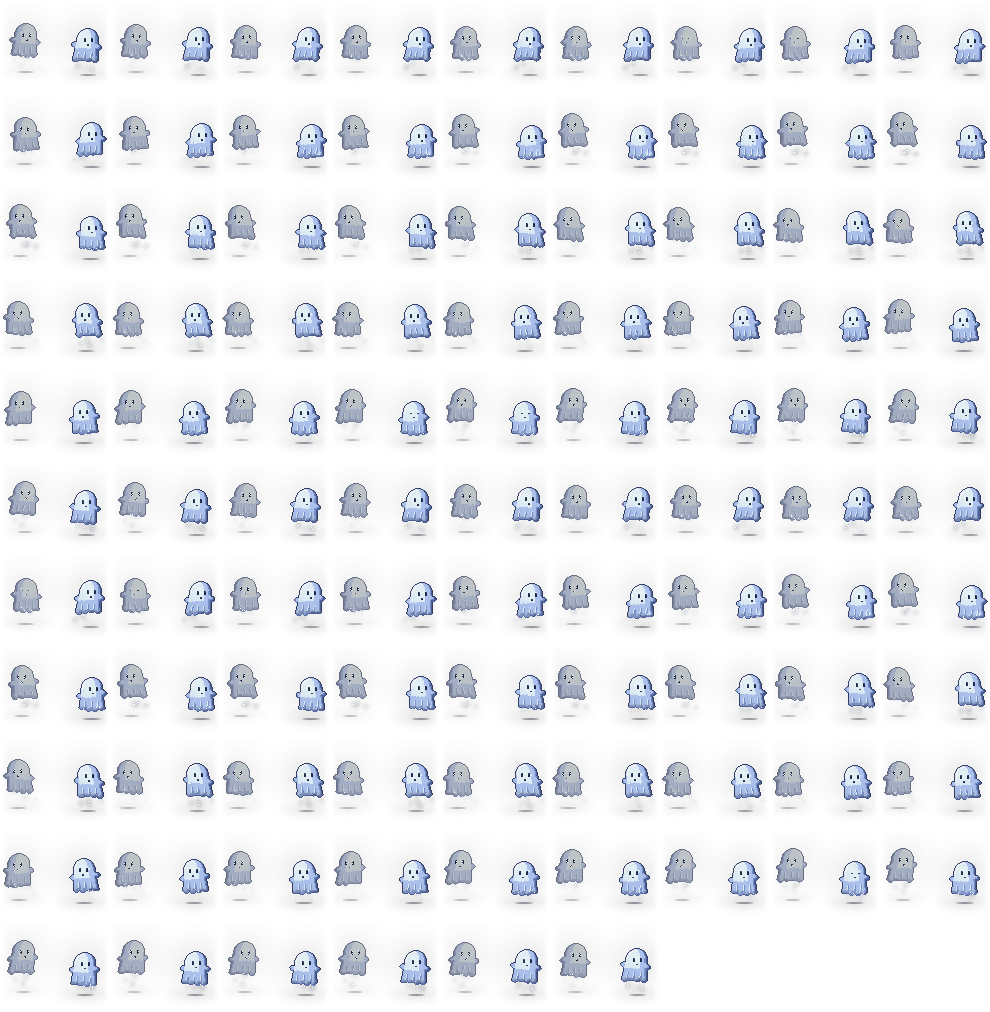
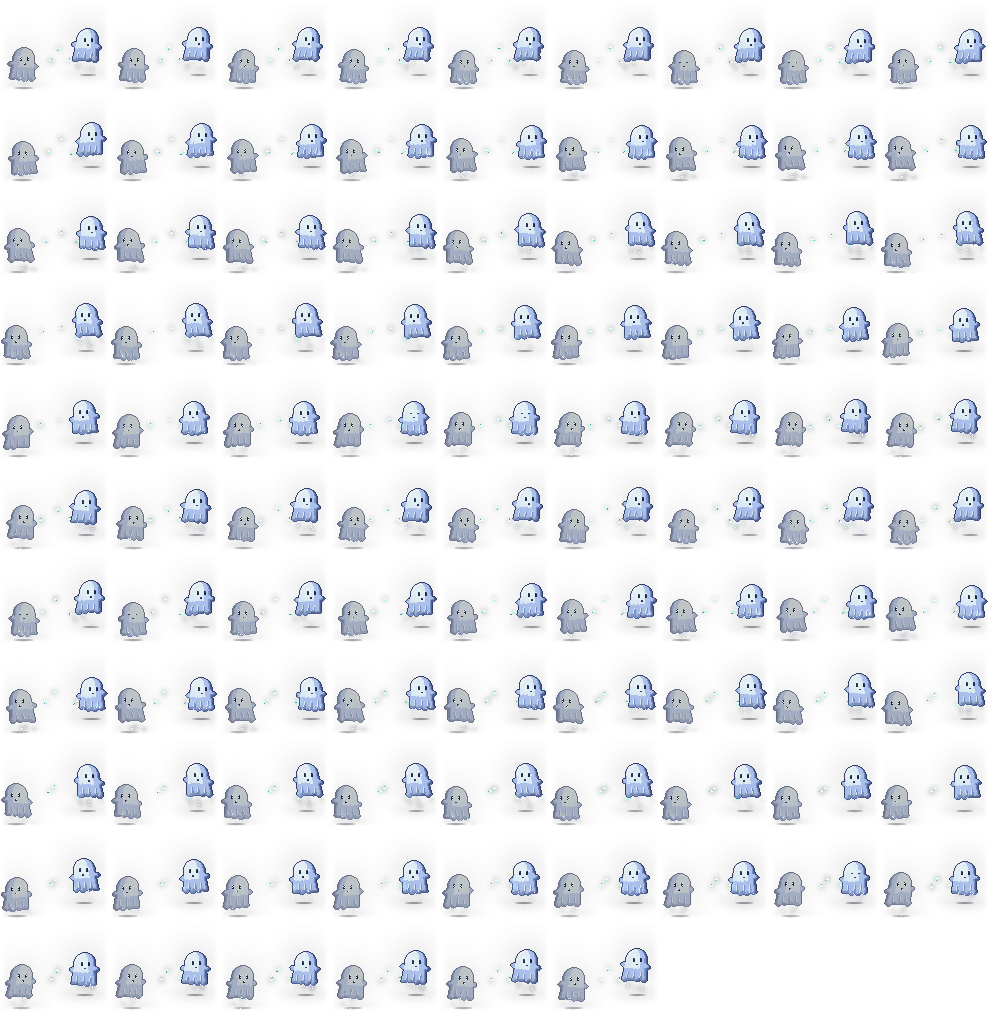
style(cosmetics): 꼬마 유령 카드 배경을 제대로 된 달밤 묘지로
- 예전 배경은 밤하늘·초승달만 보이고 고목·비석은 유령과 이름 띠에 가려 썰렁했다
- 유령이 없는 자리에 볼거리를 둔다: 오른쪽 위 초승달, 왼쪽에 등불 단 고목(등불이 은은히 빛난다),
  초상화 아래 먼 언덕의 작은 예배당, 언덕 등성이의 철책, 이름 띠 위로 올린 큰 비석·십자가, 풀, 안개
- 흐릿한 유령은 무덤 사이에서 솟아오르게 낮췄고(등불이 가려지지 않게), 도깨비불 셋이 무덤 위를 떠돈다

diff --git a/scripts/pixelfx/cards/bg-ghost.js b/scripts/pixelfx/cards/bg-ghost.js
@@ -1,18 +1,117 @@
-// Nexus card "꼬마 유령" backdrop: a blue night graveyard, crescent moon, a dead tree, crooked stones in the fog.
-import { sky, halo, ridge, stars, moon, deadTree, tomb, fogBand } from "./_bg.js";
+// Nexus card "꼬마 유령" backdrop: a moonlit graveyard. A crescent moon top right, a small chapel on the far hill
+// below the portrait, a gnarled tree on the left with a lantern hanging off a branch, an iron fence along
+// the crest, big crooked headstones and crosses raised on the hill (above the name bar), mist in the hollow.
+import { sky, halo, ridge, stars, moon, fogBand, W } from "./_bg.js";
 import { CARD } from "./_card.js";
-export const meta = { name: "Card bg: ghost", desc: "Blue night graveyard with a crescent moon.", tags: ["card", "bg"], ...CARD, duration: 0.05, loop: true, fps: 20, bg: "dark", options: { seed: 1 } };
+import { hex, rand } from "../../core/index.js";
+export const meta = { name: "Card bg: ghost", desc: "Moonlit graveyard: chapel, gnarled tree with lantern, fence, headstones, mist.", tags: ["card", "bg"], ...CARD, duration: 0.05, loop: true, fps: 20, bg: "dark", options: { seed: 1 } };
+
+const INK = hex("#060914");
+const SIL = ["#0b1124", "#111a33", "#18233f"].map(hex); // silhouettes, far to near
+const STONE = ["#1c2540", "#2c3858", "#43527a", "#6a7aa6"].map(hex); // headstones: shadow .. moonlit edge
+const GRASS = ["#0d1a26", "#16293a", "#22405a"].map(hex);
+
+function chapel(p, x, base) {
+  // small and far: a nave, a steeple with a cross, one pointed window glowing faintly
+  const c = SIL[0];
+  p.rect(x, base - 7, 10, 7, c);
+  for (let r = 0; r < 4; r++) p.rect(x - 1 + r, base - 8 - r, 12 - r * 2, 1, c);
+  p.rect(x + 1, base - 16, 4, 9, c);
+  for (let r = 0; r < 4; r++) p.rect(x + 1 + Math.floor(r / 2), base - 17 - r, 4 - Math.floor(r / 2) * 2, 1, c);
+  p.rect(x + 2, base - 24, 2, 4, c); p.rect(x + 1, base - 23, 4, 1, c);
+  const glow = hex("#9fd8c8");
+  p.rect(x + 2, base - 13, 2, 2, glow);
+  p.rect(x + 7, base - 5, 1, 2, hex("#6fa89a"));
+  halo(p, x + 3, base - 12, 5, "#9fd8c8", 0.3);
+}
+
+/** a gnarled tree on the left: thick strokes along fixed bends, a lantern hanging from the long low limb */
+function tree(p) {
+  const c = hex("#070b18");
+  // [from x, from y, to x, to y, width from, width to]
+  const stroke = (x0, y0, x1, y1, w0, w1) => {
+    const n = Math.ceil(Math.hypot(x1 - x0, y1 - y0) * 2);
+    for (let i = 0; i <= n; i++) {
+      const u = i / n, w = w0 + (w1 - w0) * u;
+      p.disc(x0 + (x1 - x0) * u, y0 + (y1 - y0) * u, Math.max(0.5, w / 2), c);
+    }
+  };
+  // trunk, leaning and kinked, with roots
+  stroke(8, 70, 11, 54, 6, 5); stroke(11, 54, 9, 42, 5, 4); stroke(9, 42, 12, 30, 4, 3);
+  stroke(2, 70, 8, 66, 2, 3); stroke(15, 70, 10, 65, 2, 3);
+  // the long low limb reaching right, where the lantern hangs
+  stroke(10, 46, 18, 40, 3, 2); stroke(18, 40, 27, 39, 2, 1.2); stroke(27, 39, 31, 36, 1.2, 1);
+  // upper limbs and twigs
+  stroke(12, 30, 20, 18, 3, 1.5); stroke(20, 18, 26, 14, 1.5, 1); stroke(20, 18, 21, 10, 1.2, 1);
+  stroke(11, 33, 3, 22, 2.5, 1.2); stroke(3, 22, 1, 15, 1.2, 1); stroke(6, 26, 9, 19, 1, 1);
+  stroke(15, 25, 13, 16, 1.2, 1); stroke(24, 39, 25, 43, 1, 1);
+  // the lantern: a chain from the limb, a little iron cage with a pale flame
+  const hx = 26, hy = 39;
+  for (let k = 1; k <= 4; k++) p.px(hx, hy + k, INK);
+  p.rect(hx - 2, hy + 5, 5, 1, INK);
+  p.rect(hx - 2, hy + 6, 5, 5, INK);
+  p.rect(hx - 1, hy + 6, 3, 4, hex("#bfeee0"));
+  p.px(hx, hy + 7, hex("#ffffff"));
+  p.rect(hx - 1, hy + 11, 3, 1, INK);
+  halo(p, hx, hy + 8, 16, "#9fe8d0", 0.45);
+}
+
+function fence(p, x0, x1, base) {
+  const bar = hex("#0a1020");
+  p.rect(x0, base - 6, x1 - x0, 1, bar);
+  p.rect(x0, base - 2, x1 - x0, 1, bar);
+  for (let x = x0; x < x1; x += 3) {
+    p.rect(x, base - 8, 1, 8, bar);
+    p.px(x, base - 9, bar); p.px(x - 1, base - 8, bar); p.px(x + 1, base - 8, bar); // spear tip
+  }
+}
+
+/** a headstone with a moonlit right edge (the moon is on the right) and a darker base */
+function stone(p, x, base, w, h, kind, lean = 0) {
+  const r = w / 2;
+  p.shade(x - r - 1, base - h - 1, x + r + 1, base, (xx, yy) => {
+    const dx = xx + 0.5 - x - lean * (base - yy) / h, top = base - h + r;
+    if (kind === "cross") {
+      const arm = yy >= base - h + 2 && yy <= base - h + 3;
+      if (!(Math.abs(dx) <= 1 || (arm && Math.abs(dx) <= r))) return;
+      if (yy < base - h) return;
+      return dx >= 0.5 ? STONE[3] : STONE[1];
+    }
+    const inside = yy >= top ? Math.abs(dx) <= r : Math.hypot(dx, yy + 0.5 - top) <= r;
+    const out = yy >= top ? Math.abs(dx) <= r + 1 : Math.hypot(dx, yy + 0.5 - top) <= r + 1;
+    if (!out) return;
+    if (!inside) return INK;
+    if (dx > r - 1.2) return STONE[3];
+    if (yy > base - 2) return STONE[0];
+    return kind === "carved" && Math.abs(dx) < r - 1.5 && (yy === top + 1 || yy === top + 3) ? STONE[0] : STONE[2];
+  });
+}
 
 export function draw(p) {
-  sky(p, ["#0b1022", "#111a33", "#182544", "#223257", "#30426b"], 0, 80, 1.1);
-  stars(p, 30, 5, 50);
-  halo(p, 92, 13, 22, "#c8d8ff", 0.4);
-  moon(p, 92, 13, 7, { lit: "#eef2ff", mid: "#c9d3f0", dark: "#9aa6cc", crescent: -1, skyC: "#111a33" });
-  ridge(p, 66, 6, 18, 3, "#141d36");
-  deadTree(p, 14, 70, 34, "#0c1226", 3, 1);
-  ridge(p, 74, 3, 10, 8, "#0e1529", { rim: "#2a3a60" });
-  tomb(p, 28, 75, 6, 8, "#1a2440", "#3c4f7c");
-  tomb(p, 84, 76, 5, 9, "#1a2440", "#3c4f7c", true);
-  tomb(p, 98, 75, 6, 7, "#1a2440", "#3c4f7c");
-  fogBand(p, 72, 7, "#7d8fc0", 0.45);
+  sky(p, ["#090e20", "#0f1731", "#152142", "#1d2c55", "#283a68"], 0, 78, 1.1);
+  stars(p, 34, 5, 46, ["#4a5a8c", "#9fb0e0", "#ffffff"]);
+  // the moon top right, in the clear sky over the ghost there
+  halo(p, 92, 14, 28, "#c8d8ff", 0.45);
+  moon(p, 92, 14, 8, { lit: "#eef2ff", mid: "#c9d3f0", dark: "#9aa6cc", crescent: -1, skyC: "#0f1731" });
+
+  // the far hill, a small chapel on it below the portrait
+  ridge(p, 60, 5, 30, 2, SIL[0]);
+  chapel(p, 36, 60);
+  // the gnarled tree on the left: the faint ghost there is see-through, the crown and lantern rise above it
+  tree(p);
+  // the graveyard hill: raised so the stones stand clear of the name bar
+  ridge(p, 65, 4, 26, 9, SIL[1], { rim: "#2a3a62" });
+  fence(p, 30, 82, 63);
+  stone(p, 25, 69, 9, 12, "carved", -0.6);
+  stone(p, 44, 68, 7, 11, "cross");
+  stone(p, 68, 68, 8, 10, "round", 0.8);
+  stone(p, 80, 70, 9, 12, "carved");
+  // grass tufts along the hill
+  for (let x = 0; x < W; x += 2) {
+    const h = Math.round(1 + rand(x, 21) * 3), y = 67 + Math.round(2 * Math.sin(x / 9));
+    p.rect(x, y - h, 1, h, GRASS[rand(x, 22) > 0.5 ? 2 : 1]);
+  }
+  p.rect(0, 71, W, 21, GRASS[0]);
+  fogBand(p, 71, 7, "#8aa0d8", 0.5, 4);
+  fogBand(p, 60, 4, "#7d8fc0", 0.25, 9);
 }

diff --git a/scripts/pixelfx/cards/card-ghost.js b/scripts/pixelfx/cards/card-ghost.js
@@ -1,13 +1,29 @@
-// Nexus card "꼬마 유령": a ghost bobs beside the portrait, a fainter one drifts on the far side.
+// Nexus card "꼬마 유령": a ghost bobs beside the portrait on the right, a fainter one rises out of the graves on
+// the left (low, so the lantern above it stays in sight), and will-o'-wisps drift over the graveyard.
 import * as ghost from "../critters/ghost.js";
 import { CARD, stamp } from "./_card.js";
+import { hex, WHITE } from "../../core/index.js";
 
 export const meta = {
-  name: "Card: ghost", desc: "A little sheet ghost bobs beside the portrait; a fainter one hovers on the other side.",
+  name: "Card: ghost", desc: "A little sheet ghost bobs beside the portrait; a fainter one rises from the graves; wisps drift.",
   tags: ["card", "ghost", "loop"], ...CARD, duration: 4.8, loop: true, fps: 20, bg: "dark", options: { seed: 1 },
 };
 
+const D = meta.duration;
+const WISP = ["#3f8f86", "#7fe0cc", "#d8fff4"].map(hex);
+
 export function draw(p, t, o) {
-  stamp(p, ghost, t, 22, 72, { seed: o.seed + 2, flip: true, fade: 0.7, phase: 1.1, hover: 18 });
+  // will-o'-wisps: each wanders a slow loop over the graves, a bright core, a short fading trail, a soft light
+  for (const [cx, cy, rx, ry, ph, sp] of [[46, 58, 6, 3, 0.1, 1], [74, 60, 5, 2.5, 0.55, 2], [58, 50, 4, 3, 0.8, 1]]) {
+    const at = (dt) => {
+      const a = ((t - dt) / D) * Math.PI * 2 * sp + ph * Math.PI * 2;
+      return [cx + Math.cos(a) * rx, cy + Math.sin(a * 2) * ry];
+    };
+    for (let k = 4; k >= 1; k--) { const [x, y] = at(k * 0.07); p.px(x, y, k > 2 ? WISP[0] : WISP[1]); }
+    const [x, y] = at(0), flick = 0.7 + 0.3 * Math.sin(t * 11 + ph * 20);
+    p.px(x, y, WHITE); p.px(x - 1, y, WISP[2]); p.px(x + 1, y, WISP[2]); p.px(x, y - 1, WISP[2]); p.px(x, y + 1, WISP[1]);
+    p.glow(x, y, 9, WISP[1], 0.45 * flick);
+  }
+  stamp(p, ghost, t, 20, 88, { seed: o.seed + 2, flip: true, fade: 0.7, phase: 1.1, hover: 10 });
   stamp(p, ghost, t, 88, 75, { seed: o.seed, hover: 14 });
 }

diff --git a/apps/web/src/components/cosmetics/effects.tsx b/apps/web/src/components/cosmetics/effects.tsx
@@ -255,7 +255,10 @@ function SlimeFx() {
 
 /* ───────── 꼬마 유령 ───────── */
 
-/** 꼬마 유령이 초상화 옆에서 둥실거리고, 반대편에 흐릿한 유령이 하나 더 떠 있다 */
+/**
+ * 달밤 묘지 — 꼬마 유령이 초상화 옆에서 둥실거리고, 흐릿한 유령이 무덤 사이에서 솟아오르며,
+ * 도깨비불이 무덤 위를 떠돈다. 배경은 초승달·등불 단 고목·작은 예배당·철책·비석·안개.
+ */
 function GhostFx() {
   return <CardSheet name="ghost" />;
 }

diff --git a/apps/web/src/components/cosmetics/catalog.ts b/apps/web/src/components/cosmetics/catalog.ts
@@ -110,7 +110,8 @@ const COSMETIC_DEFS: CosmeticItem[] = [
     code: "FX_GHOST",
     slot: "CARD_FRAME",
     name: "꼬마 유령",
-    description: "초승달 뜬 안개 묘지에서 꼬마 유령들이 둥실둥실 떠다닌다",
+    description:
+      "초승달 뜬 안개 묘지, 등불 단 고목 아래 꼬마 유령들이 둥실거리고 도깨비불이 떠돈다",
     price: 250,
     rarity: "STARTER",
     className: "bg-[#5b6478]",

diff --git a/scripts/pixelfx/README.md b/scripts/pixelfx/README.md
@@ -8,14 +8,14 @@
 모든 카드는 **110×92 칸**이다 — 칸 크기가 같아야 로비에 여러 카드가 나란히 있을 때 픽셀 크기가 맞는다.
 카드 하나는 멈춘 배경 한 장(`bg-*.png`) 위에 움직이는 시트(`*.png`)를 겹친 것이다.
 
-| 카드                    | 배경 효과           | 움직이는 효과                                     | 구운 파일 (`apps/web/public/cosmetics/cards/`) |
-| ----------------------- | ------------------- | ------------------------------------------------- | ---------------------------------------------- |
-| 픽셀 화염 `FX_FIRE`     | `cards/bg-fire.js`  | `card-blaze.js` (`fire/` 에 넣는다)               | `bg-fire.png`, `fire-blaze.png`                |
-| 통통 슬라임 `FX_SLIME`  | `cards/bg-slime.js` | `cards/card-slime.js` (critters/slime 두 마리)    | `bg-slime.png`, `slime.png`                    |
-| 꼬마 유령 `FX_GHOST`    | `cards/bg-ghost.js` | `cards/card-ghost.js` (critters/ghost 두 마리)    | `bg-ghost.png`, `ghost.png`                    |
-| 박쥐 떼 `FX_BATS`       | `cards/bg-bats.js`  | `cards/card-bats.js` (critters/bat 세 마리)       | `bg-bats.png`, `bats.png`                      |
-| 전설의 검 `FX_SWORD`    | `cards/bg-sword.js` | `cards/card-sword.js` (바위에 꽂힌 검, 직접 그림) | `bg-sword.png`, `sword.png`                    |
-| 천둥번개 `FX_LIGHTNING` | `cards/bg-storm.js` | `cards/card-storm.js` (lightning/_lib 번개)       | `bg-storm.png`, `storm.png`                    |
+| 카드                    | 배경 효과           | 움직이는 효과                                             | 구운 파일 (`apps/web/public/cosmetics/cards/`) |
+| ----------------------- | ------------------- | --------------------------------------------------------- | ---------------------------------------------- |
+| 픽셀 화염 `FX_FIRE`     | `cards/bg-fire.js`  | `card-blaze.js` (`fire/` 에 넣는다)                       | `bg-fire.png`, `fire-blaze.png`                |
+| 통통 슬라임 `FX_SLIME`  | `cards/bg-slime.js` | `cards/card-slime.js` (critters/slime 두 마리)            | `bg-slime.png`, `slime.png`                    |
+| 꼬마 유령 `FX_GHOST`    | `cards/bg-ghost.js` | `cards/card-ghost.js` (critters/ghost 두 마리 + 도깨비불) | `bg-ghost.png`, `ghost.png`                    |
+| 박쥐 떼 `FX_BATS`       | `cards/bg-bats.js`  | `cards/card-bats.js` (critters/bat 세 마리)               | `bg-bats.png`, `bats.png`                      |
+| 전설의 검 `FX_SWORD`    | `cards/bg-sword.js` | `cards/card-sword.js` (바위에 꽂힌 검, 직접 그림)         | `bg-sword.png`, `sword.png`                    |
+| 천둥번개 `FX_LIGHTNING` | `cards/bg-storm.js` | `cards/card-storm.js` (lightning/_lib 번개)               | `bg-storm.png`, `storm.png`                    |
 
 `cards/_card.js` 는 카드 크기와 라이브러리 효과를 카드 위 자리에 찍는 `stamp`,
 `cards/_bg.js` 는 배경 그리기 도구(띠 하늘·실루엣·달·별·안개)다.
